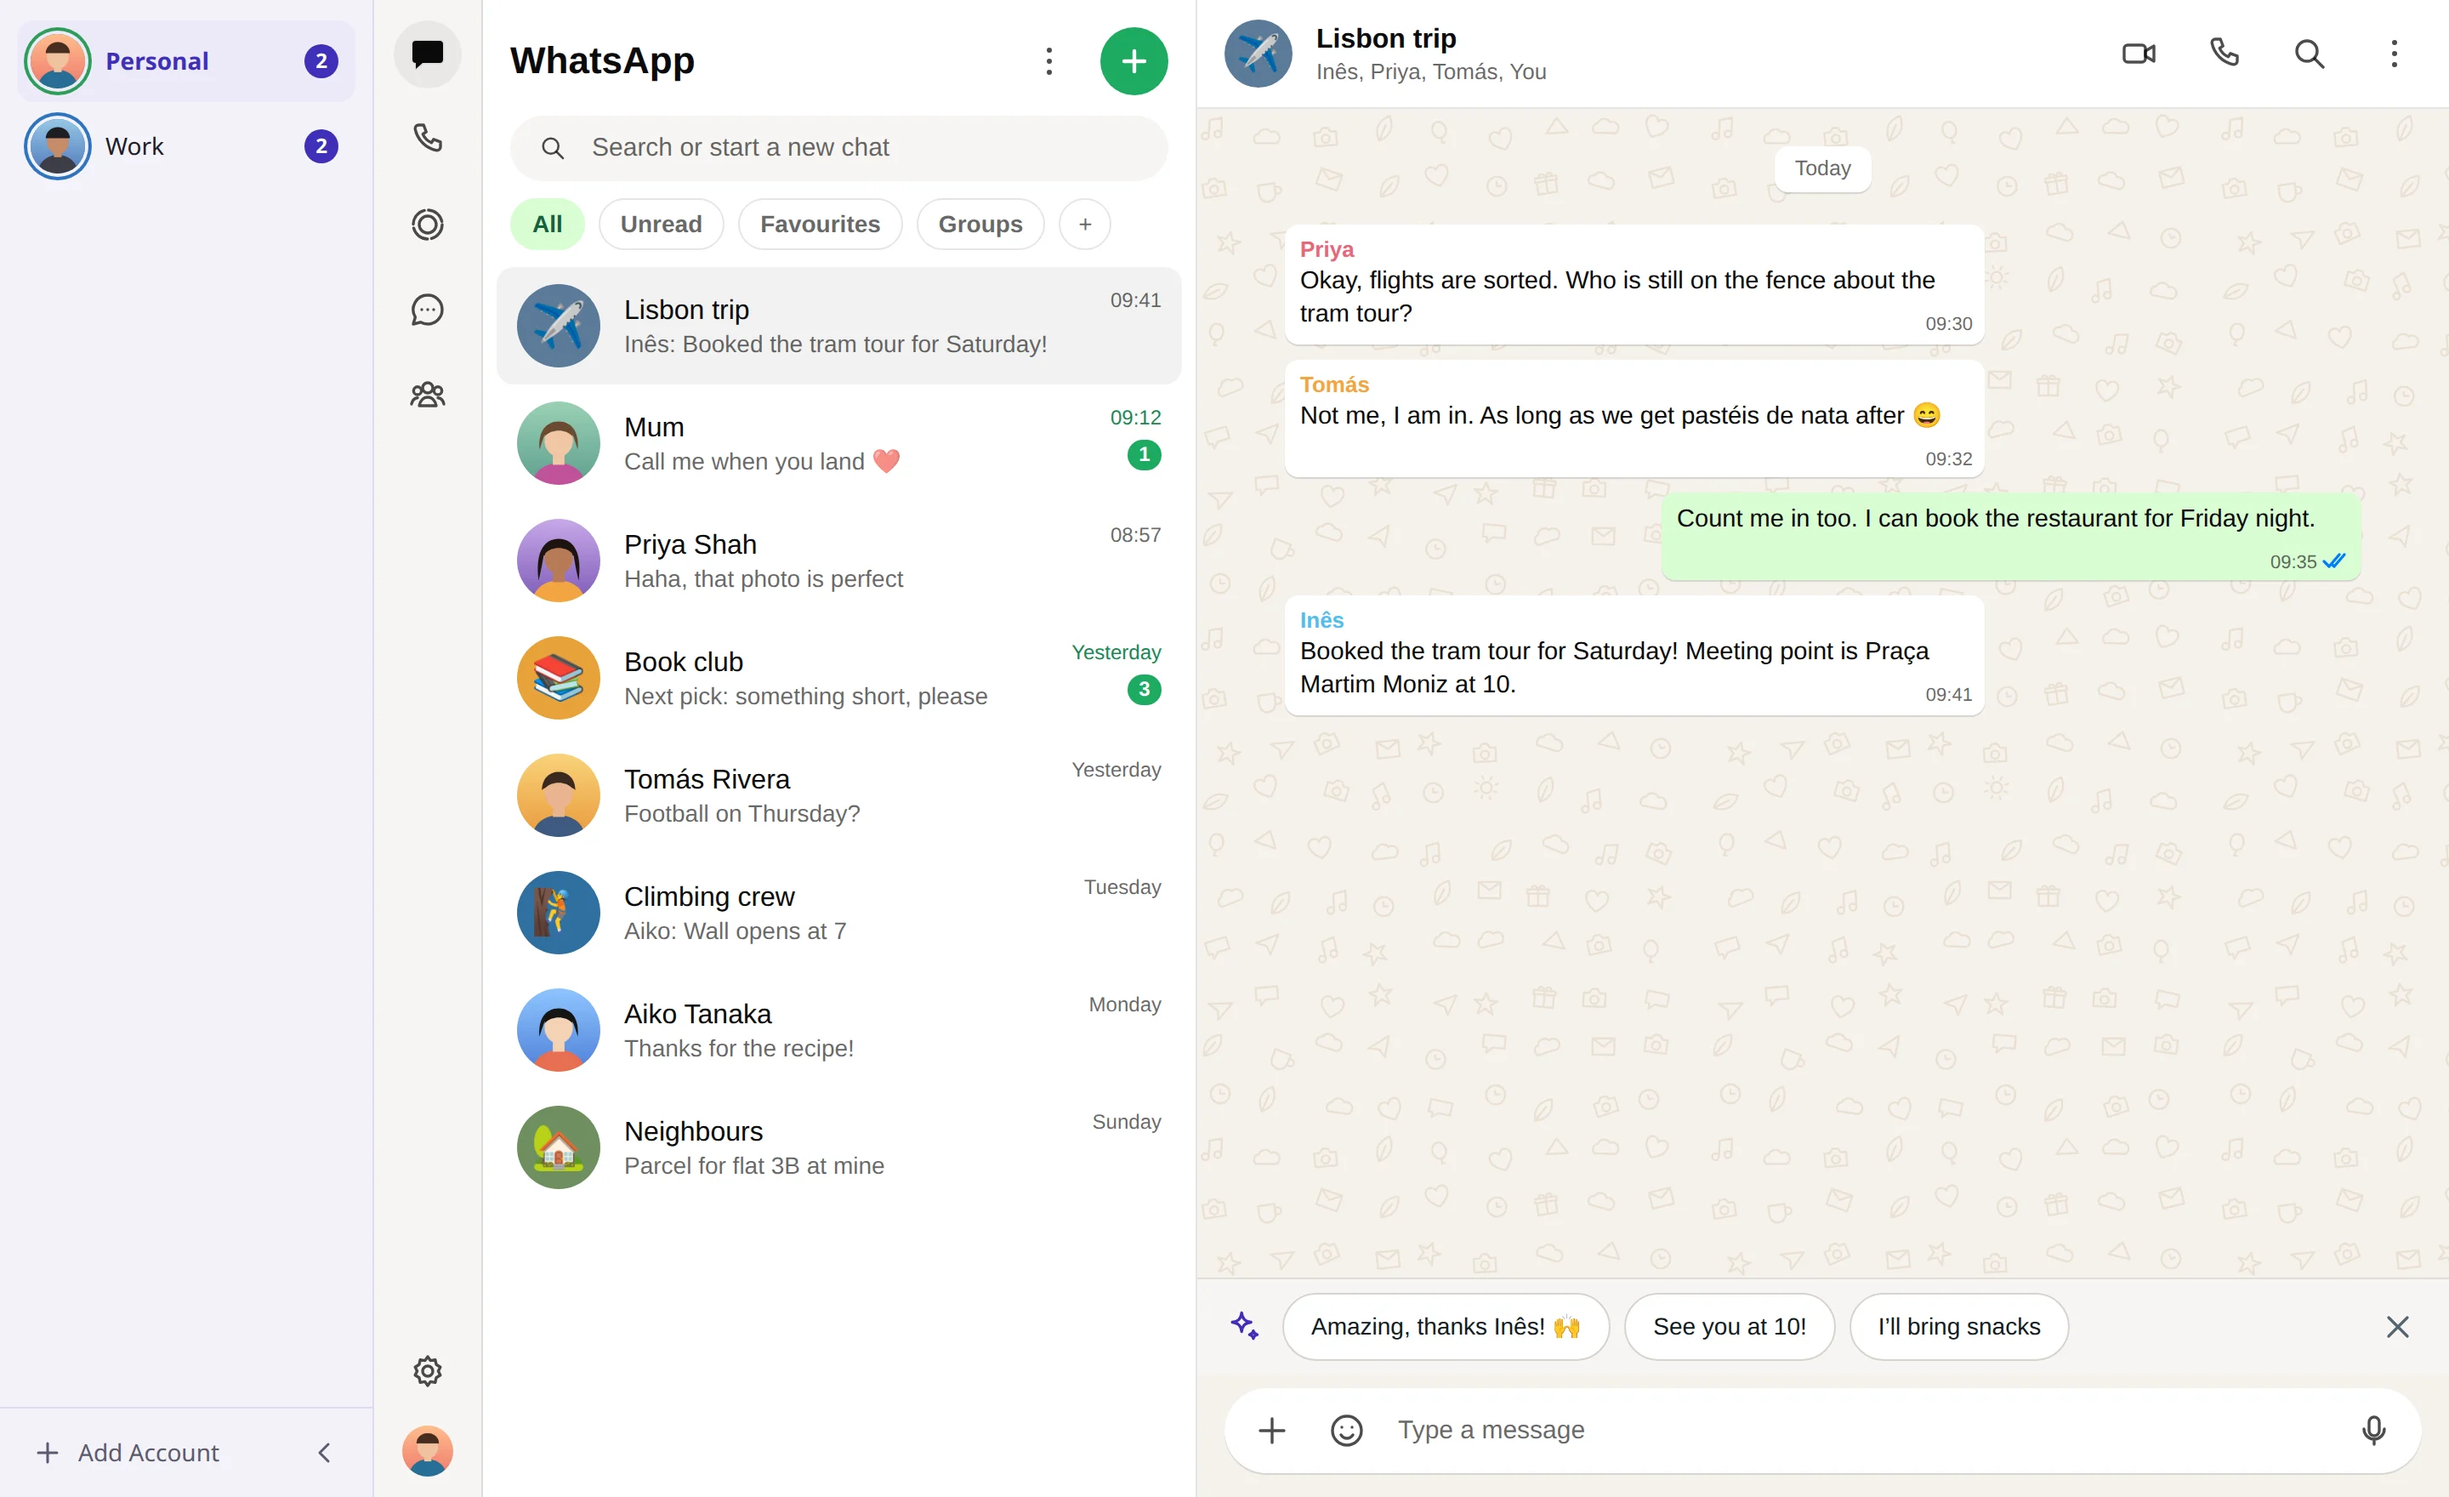
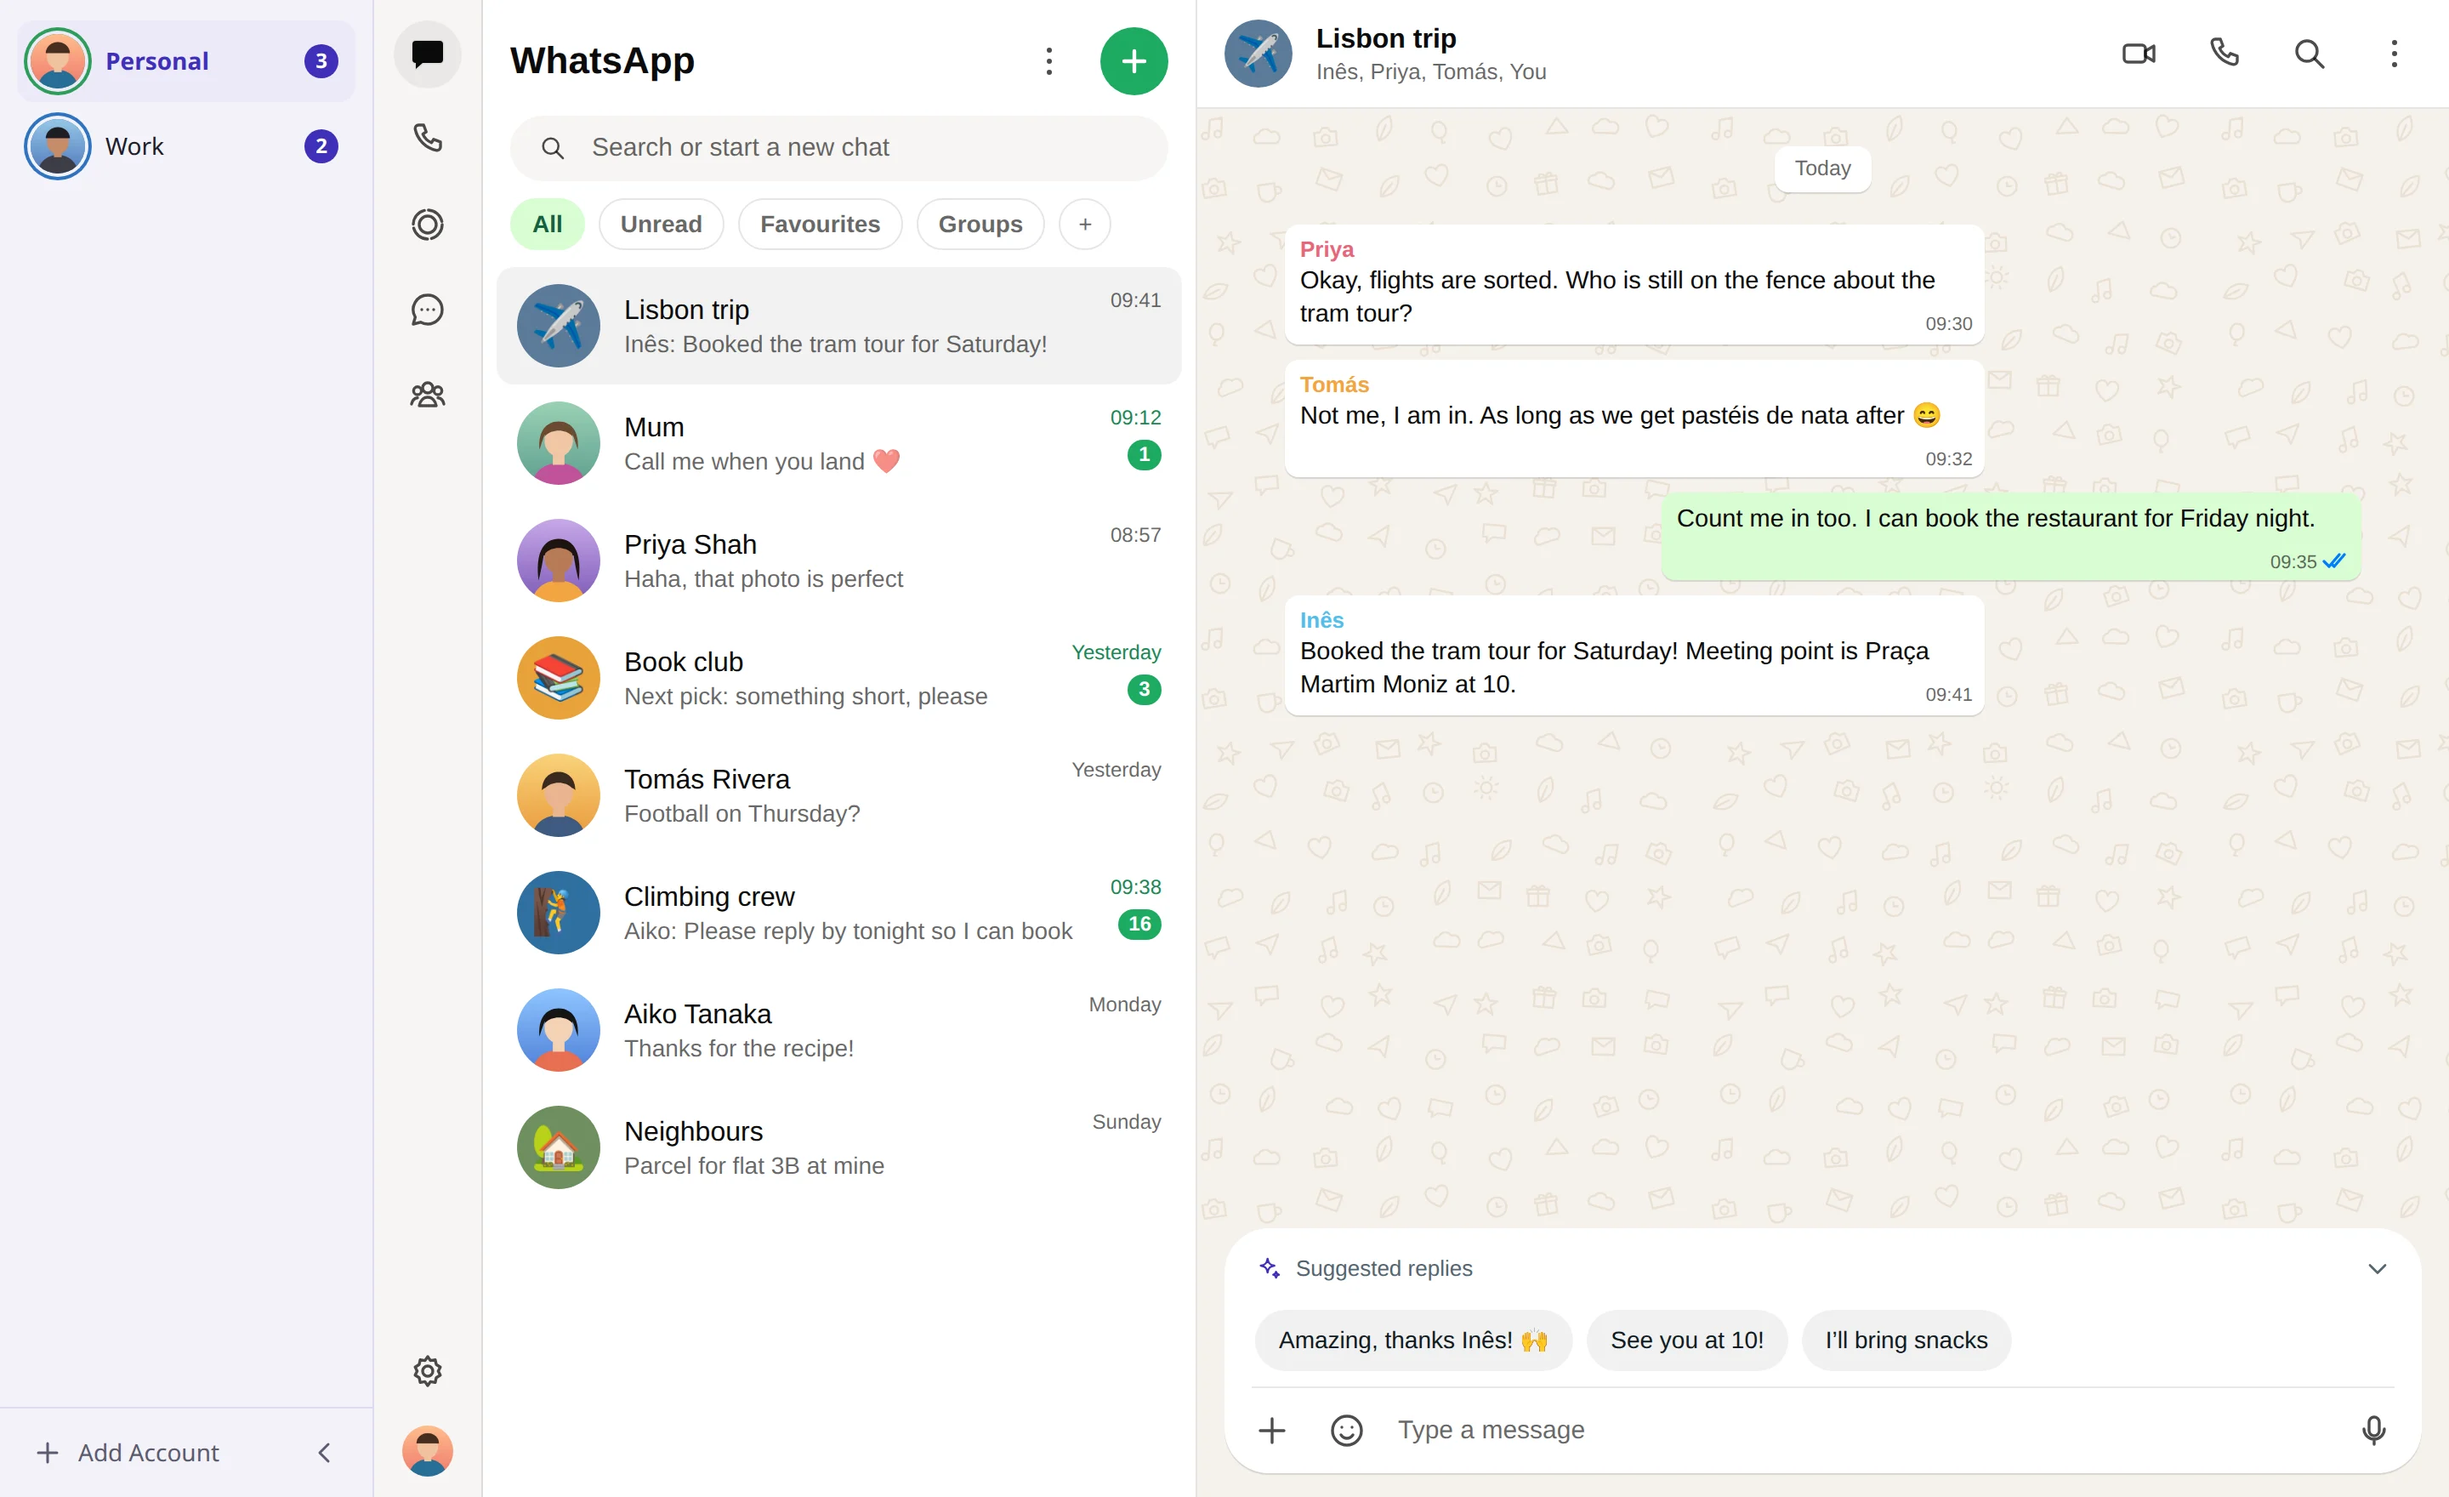
docs(readme): record the animation and screenshots again with the suggestions tray

diff --git a/docs/progress/notes/768.md b/docs/progress/notes/768.md
@@ -1,0 +1,7 @@
+# README animation and screenshots with the suggestions tray (#768)
+
+The README animation and the website's main window and AI Assistant
+settings screenshots are recorded again with `pnpm screenshots`: the reply
+suggestions in their tray joined to the message box (#765), and the AI
+Assistant settings with the provider first (#767). The animation is hosted
+in GitHub's attachments, as before.
